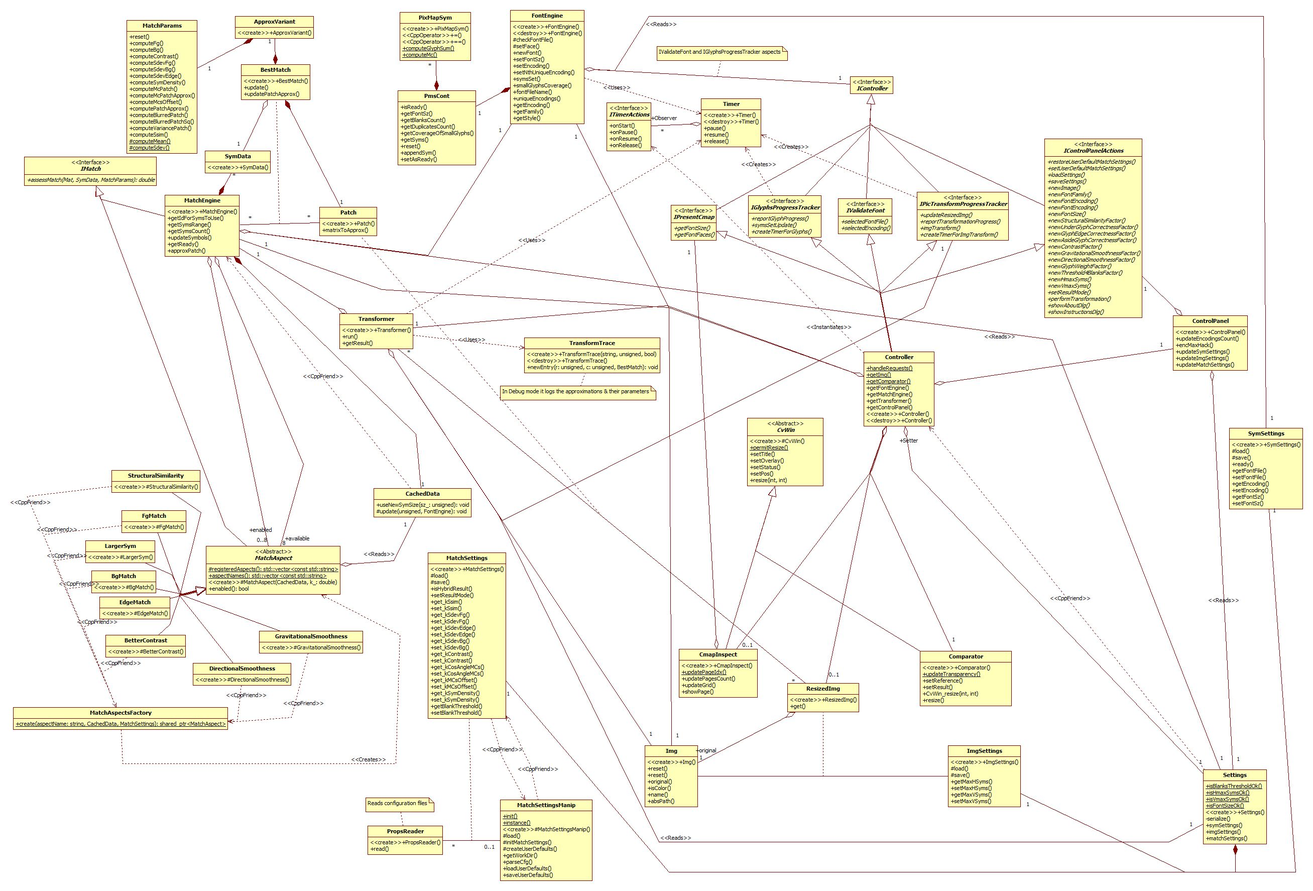
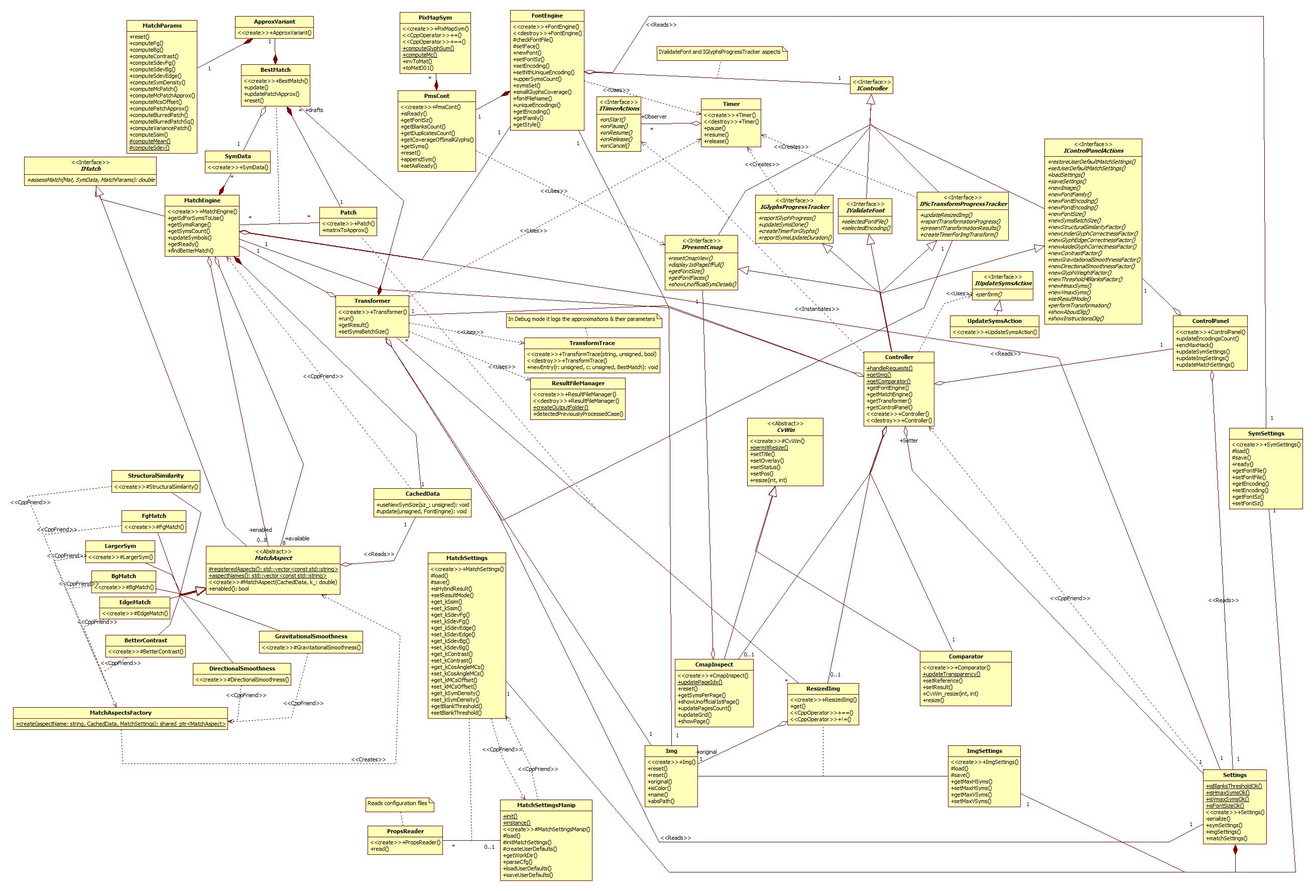
doc: updated doc for v1.3

diff --git a/doc/appendix.md b/doc/appendix.md
@@ -1,7 +1,23 @@
 ## Appendix ##
 [Back to start page](../ReadMe.md)
 
-#### A.	Technical Details of Pic2Sym v1.2
+##### A. Visualizing Draft Results in Pic2Sym v1.3
+
+Version **1.3** permits visualizing several *draft results* during the image approximation process. The user can adjust *dynamically* such feedback from the application using the **&#39;Batch syms&#39;** slider. The transformation uses dynamic charmap partitioning, so a new better draft is generated for each new lot of considered symbols. The mentioned slider dictates the size of next lots.<br>
+![](DraftsCmapPartitioning.jpg)<br>
+In this case, **&#39;Batch syms&#39;** was left from the beginning to the end of the transformation on value **5**. The *charmap* contains **125 symbols**, so there were 125 / 5 = **25 drafts** - *one generated every 4%*. Reported progress is **92%**, so the displayed draft is **23rd**. The application was just computing **24th** draft, based on the symbols with indeces *115 - 119* (the ones surrounded with *orange contour* in the image). None of the symbols 115-124 would appear in the 23rd draft, as they were not compared with the patches yet.
+
+Suppose at the captured instant the user moves the slider on value **1**. Then next batches (starting with index *120*) will have size **1**, so there will be **5** additional drafts following the one currently generated.
+
+Slider value **0** wouldn&#39;t make any sense, but since 0 is a *mandatory slider value in highgui library*, it was assigned a special meaning: **infinite batch size** - that is *next batch* should include **all remaining unprocessed glyphs**.
+
+While the last batch is considered (the one generating the final result), any changes of the **&#39;Batch syms&#39;** slider will no longer affect this transformation. So charmap partitioning is dynamic as long as there still are unprocessed batches left.
+
+Keep in mind that drafts are more visually appealing progress reports than simple completion percents, but they incur some time penalty. *Quickest approximation* is obtained with **&#39;Batch syms&#39;** slider on **0**. The *slowest* happens for **1**.
+
+The memory footprint of v1.3 is larger than v1.2 as it maintains a matrix of best matches, so that drafts are gradually improving.
+
+#### B.	Technical Details of Pic2Sym v1.3
 
 The application was tested on *Windows 7 64 bits* and developed in *C++*.
 
@@ -19,7 +35,11 @@ The decision to offer *support only for 64bits machines* originated from the len
 
 If *interested in the 32bits version of Pic2Sym*, you may search for ***Win32*** *binaries* of **OpenCV**, **FreeType 2** and **Boost**(*Serialization*, *System* and *Filesystem*), then link them within the project.
 
-The ***parallelization switches*** from _version **1.2**_, configurable from [res/varConfig.txt](../res/varConfig.txt) are *effective only when* the *global UsingOMP switch* is *on* and they _don&#39;t trigger **nested parallelism**_.
+- - -
+
+The ***parallelization switches*** from _version **1.3**_, configurable from [res/varConfig.txt](../res/varConfig.txt) are *effective only when* the *global UsingOMP switch* is *on* and they _don&#39;t trigger **nested parallelism**_. The optional **nested** parallelism from the image transformation code from version **1.2** was *removed in v1.3*. It turns out this reduces OpenMP checks concerning eventual dynamic parallelization requests, so the performance improves.
+
+- - -
 
 The *class diagram* from below presents a *simplified* perspective of the application:<br>
 ![](ClassDiag.jpg)<br>
@@ -33,7 +53,7 @@ The ***Controller*** manages the image transformation process through the follow
 - ***Img*** \- the image to approximate with symbols
 - ***Transformer*** \- preprocesses the image (resizes it - ***ResizedImg***) and demands its approximation  ***Patch*** by patch from ***MatchEngine***
 - ***FontEngine*** \- involved in loading a new font file from which to use a given encoding of a certain size
-	- ***PmsCont*** \- simple container holding each loaded glyph and some related data (part of ***FontEngine***)
+	- ***PmsCont*** \- simple container holding each loaded glyph and some related data (part of ***FontEngine***). It is used to present an *early preview of the charmap* by simply *launching a preview thread* when there are *enough processed glyphs to fill a page*
 		- ***PixMapSym*** \- a particular loaded symbol (item in ***PmsCont***)
 - ***MatchEngine*** \- the responsible of finding ***BestMatch***, the best symbol approximating a patch; also a **composite** referring match aspects
 	- ***MatchAspect*** \- base class for all 8 implemented match aspects
@@ -46,23 +66,25 @@ The ***Controller*** manages the image transformation process through the follow
 
 While comparing the symbol set with a Patch, there are values which can be reused among the employed ***MatchAspect***s. Such shareable values are grouped by the ***MatchParams*** class.
 
-***BestMatch*** holds the index of the most similar symbol to a patch, found at a given time, while investigating sequentially all the glyphs.
+***BestMatch*** holds the index of the most similar symbol to a patch, found at a given time, while investigating sequentially all the glyphs, batch by batch. ***Transformer*** keeps a matrix of ***BestMatch***-es for all the ***Patch***-es of the ***ResizedImg***. It provides this matrix as starting reference for generating another draft based on a new batch of glyphs. Besides, subsequent transformations of the same image with different charmaps will reuse previously computed ***Patch***-related data.
 
 Each symbol compared to a match produces a possible approximation ***ApproxVariant*** of the patch. Thus, *ApproxVariant* could be an *association class between Patch and one SymData item from MatchEngine*.
 
-Timing is provided by ***Timer*** class which expects a realization class of ***ITimerActions*** interface.
+*Timing* is provided by ***Timer*** class which expects a realization class of ***ITimerActions*** interface.
 
-Logging preserves the reasons behind the approximation of each patch with a certain glyph - ***TransformTrace*** makes that possible.
+*Logging* preserves the reasons behind the approximation of each patch with a certain glyph - ***TransformTrace*** makes that possible in Debug mode for transformations not canceled.
+
+*Saving resulted approximations* (completed or only partial) is the responsibility of ***ResultFileManager***, which also *detects redundant transformation requests*, when it displays the available results.
 
 ***ControlPanel*** class configures and updates the sliders from the dialog.
 
-***Comparator*** and ***CmapInspect*** share ***CvWin*** interface and provide support for comparing original images with results, and displaying the symbols from a charmap.
+***Comparator*** and ***CmapInspect*** share ***CvWin***&#39;s interface and provide support for *comparing original images with results*, and *displaying the symbols from a charmap*. ***CmapInspect*** will also attempt displaying an *early preview of a large charmap*, while it&#39;s loading. Throughout this load process, the GUI is updated based on action requests (instantiations of ***IUpdateSymsAction***) added / consumed from a queue.
 
-***MatchSettingsManip*** facilitates version management coupled with external configuration (see *res/defaultMatchSettings.txt*) for ***MatchSettings***.
+***MatchSettingsManip*** facilitates version management coupled with external configuration (see [*res/defaultMatchSettings.txt*](../res/defaultMatchSettings.txt)) for ***MatchSettings***.
 
 ***PropsReader*** provides the application with configuration items found in:
-- *res/defaultMatchSettings.txt* \- used by ***MatchSettings***
-- *res/varConfig.txt* \- adjustable constants grouped to **permit no-recompilation changes**
+- [*res/defaultMatchSettings.txt*](../res/defaultMatchSettings.txt) \- used by ***MatchSettings***
+- [*res/varConfig.txt*](../res/varConfig.txt) \- adjustable constants grouped to **permit no-recompilation changes**
 
 Classes *omitted from the diagram*:
 - ***Dialog classes*** which appear when choosing a new image / font / settings file
@@ -70,17 +92,20 @@ Classes *omitted from the diagram*:
 
 The comments within the code provide more explanations.
 
-#### B.	Installation of Pic2Sym v1.2
+#### C.	Installation of Pic2Sym v1.3
 
 1.	Download the repository files
-2.	Copy ***Common.props***, ***Debug.props*** and ***Release.props*** from **install/** folder to the solution folder
-3.	Unpack ***include.zip*** and ***lib.zip*** to the solution folder
-4.	Open the solution file and build it for **64bits** platform
-5.	*Optionally* install the free font file ***BPmonoBold.ttf*** from the **res/** folder or from [here][1], in order to be visible while running the application
+1.	Copy ***Common.props***, ***Debug.props*** and ***Release.props*** from **install/** folder to the solution folder
+1.	Unpack ***include.zip*** and ***lib.zip*** to the solution folder
+1.	Open the solution file and build it for **64bits** platform
+1.	*Optionally* install the free font file ***BPmonoBold.ttf*** from the **res/** folder or from [here][1], in order to be visible while running the application
 
-#### C.	Directory Structure for Pic2Sym v1.2
+#### D.	Directory Structure for Pic2Sym v1.3
 
-- **bin**/ contains the archieve ***Pic2Sym.zip*** with the *executable* and *required dll\-s*
+- **bin**/ contains:
+	- ***Pic2Sym.zip*** with the *executable*
+    - ***dlls.zip*** with the *required dll\-s*
+    - ***agpl-3.0.txt*** - the *license* of the application
 - **doc**/ contains the *documentation of the project* and 2 subfolders:
 	- **examples** with various results generated by the Pic2Sym project
 	- **licenses** with the *license files* from *Boost*, *FreeType* and *OpenCV*

diff --git a/doc/results.md b/doc/results.md
@@ -1,24 +1,36 @@
-## Example results generated by Pic2Sym &#60;&#61; v1.2 ##
+## Example results generated by Pic2Sym &#60;&#61; v1.3 ##
 [Back to start page](../ReadMe.md)
 
 Below are some results, which can also be found in [doc/examples](examples/) folder. The mentioned directory contains the originals as well. Each result file is prefixed by the name of the processed image.
 
 Clicking on the presented cases will open the full\-size results from [doc/examples](examples/).
 
-Version **1.2** should be the version to *choose for multi\-core processors*. It is *version 1.1 equipped for such support*. *Parallelization* in **v1.2** can be *enabled selectively* or *disabled completely* from [res/varConfig.txt](../res/varConfig.txt) (*no recompilation necessary when changed*). Some of the cases from below were tested also with version 1.2. When there&#39;s just *1 thread* mentioned, the *parallelization was completely disabled*. When specified *2 threads*, each *row of image patches* was processed by the *next available core*. There are many other parallelization switches (see the [Appendix](appendix.md) for details).
+Version **1.3** should be the version to choose for **multi\-core processors** or when aspects like **cancelable transformation** and **drafts visualization** are desired. It is *version 1.2* with *nested parallelization* removed from the image transformation code. *Parallelization* in **v1.3** can be *enabled selectively* or *disabled completely* from [res/varConfig.txt](../res/varConfig.txt) (*no recompilation necessary when changed*). When parallelization is enabled, each *row of image patches* is processed by the *next available core*. There are many other parallelization switches (see the [Appendix](appendix.md) for details).
 
-##### Hybrid Results (starting from version 1.1)
+Some of the cases from below were tested also with version 1.3.
 
-Hybrid Result mode enabled; 27540 patches to approximate using 125 symbols (*BPmono_Bold_APPLE_ROMAN_10*); Duration: **88 s** (_v**1.1**_); **101 s** (_v**1.2** using **1 thread**_); **57 s** (_v**1.2** using **2 threads**_)<br>
-[![](Example1_v1.1.jpg)](examples/6_BPmono_Bold_APPLE_ROMAN_10_1_2.5_0.25_1_0.75_0.1_0.2_0.2_0.1_0_2040_1350.jpg)<br>
-Notice how the **symbols avoid imposing themselves** and are **more visible only where they are more naturally suited**. Use **Hybrid mode** for such **discrete approximations**.<br>
+##### Illustrating &#39;Hybrid Results&#39; (introduced in version 1.1):
+
+Using a scenario with Hybrid Result mode enabled and 27540 patches to approximate with 125 symbols (*BPmono_Bold_APPLE_ROMAN_10*):<br>
+[![](Example1_v1.3.jpg)](examples/6_BPmono_Bold_APPLE_ROMAN_10_1_2.5_0.25_1_0.75_0.1_0.2_0.2_0.1_0_2040_1350.jpg)<br>
+Notice how the **symbols avoid imposing themselves** and are **more visible only where they are more naturally suited**. Use **Hybrid mode** for such **discrete approximations**.
+
+Obtained **durations**:
+- _v1.3 (using **2 threads**)_:
+	- **48 s** (_with **symbol batching disabled**_ : slider **&#39;Batch syms&#39;** set on **0** from the image below)
+	- **53 s** (_using **batches of 25 symbols**_)
+- _v1.2_:
+	- **57 s** (_using **2 threads**_)
+	- **101 s** (_using **1 thread**_)
+- _v1.1_: **88 s**
+
 *Versions starting from 1.1 skip approximating uniform patches* and that&#39;s why *processing times are smaller for this image compared to version 1.0* (see below).
 
 * * *
 
 ##### Satisfactory results and their settings (no Hybrid Result mode)
 
-Same picture and settings from above (but no **Hybrid Result**) generate the image below in **153 s** in *version* **1.0**:<br>
+Same picture and settings from above (but no **Hybrid Result**) generate the following result in **153 s** in *version* **1.0**:<br>
 [![](Example1.jpg)](examples/6_BPmono_Bold_APPLE_ROMAN_10_2.5_0.25_1_0.75_0.1_0.2_0.2_0.1_0_2040_1350.jpg)<br>
 It marks high in the following parts: eyes, eyebrows, wrinkles, some contours and texture of the shiny blue object in the close plane.<br>
 The grid splits incur some unnatural transitions.
@@ -65,8 +77,12 @@ Using only [Structural Similarity][], again; 27540 patches to approximate using 
 Duration: **385 s** (**no Hybrid**, _version **1.0**_):<br>
 [![](Example7.jpg)](examples/15_Monaco_Regular_UNICODE_10_2.5_0_0_0_0_0_0_0_0_2040_1350.jpg)<br>
 The chamois seem quite blurred and the background seriously competes for viewer&#39;s attention, more than it should, in my opinion.<br><br>
-**Hybrid approximation** from below isn&#39;t affected by these concerns. Duration: **291 s** (_v**1.1**_); **314 s** (_v**1.2** using **1 thread**_); **180 s** (_v**1.2** using **2 threads**_):<br>
-[![](Example7_v1.1.jpg)](examples/15_Monaco_Regular_UNICODE_10_1_2.5_0_0_0_0_0_0_0_0_2040_1350.jpg)
+**Hybrid approximation** from below isn&#39;t affected by these concerns:<br>
+[![](Example7_v1.1.jpg)](examples/15_Monaco_Regular_UNICODE_10_1_2.5_0_0_0_0_0_0_0_0_2040_1350.jpg)<br>
+Obtained **durations**:
+- _v1.3_: **159 s** (_using **2 threads** with **symbol batching disabled**_)
+- _v1.2_: **180 s** (_using **2 threads**_); **314 s** (_using **1 thread**_)
+- _v1.1_: **291 s**
 _ _ _
 
 Still using only [Structural Similarity][]; 27405 patches to approximate using 219 symbols (*Consolas_Italic_APPLE_ROMAN_10*)<br>
@@ -75,15 +91,19 @@ Still using only [Structural Similarity][]; 27405 patches to approximate using 2
 *Italic* fonts cannot tackle top\-left corners well\-enough.<br>
 There are just a few parts that looks like one would expect from an approximation.<br>
 A reason might be that there are many large background differences among neighbor patches.<br><br>
-**Hybrid approximation** seems better. Duration: **188 s** (_v**1.1**_); **198 s** (_v**1.2** using **1 thread**_); **106 s** (_v**1.2** using **2 threads**_):<br>
+**Hybrid approximation** seems better:<br>
 [![](Example8_v1.1.jpg)](examples/7g_Consolas_Italic_APPLE_ROMAN_10_1_2.5_0_0_0_0_0_0_0_0_1350_2030.jpg)<br>
+Obtained **durations**:
+- _v1.3_: **101 s** (_using **2 threads** with **symbol batching disabled**_)
+- _v1.2_: **106 s** (_using **2 threads**_); **198 s** (_using **1 thread**_)
+- _v1.1_: **188 s**
 _ _ _
 
 Finally, [Structural Similarity][] disabled; 625 patches to approximate using 218 symbols (*Courier_New_Bold Italic_APPLE_ROMAN_10*)<br>
 Duration: **1 s** (**no Hybrid**, _version **1.0**_):<br>
 [![](Example9.jpg)](examples/17g_Courier New_Bold Italic_APPLE_ROMAN_10_0_0.25_1_0.75_0.1_0.2_0.2_0.1_0_250_250.jpg)<br>
 ***Bold Italic*** fonts don&#39;t serve well when patches contain vertical texture, like the pajama of the man from top\-right corner.<br><br>
-**Hybrid approximation** appears better. Duration: **1 s** (_v**1.1** and v**1.2** with **1** or **2 threads**_):<br>
+**Hybrid approximation** appears better. Duration: **1 s** (_v**1.1**, v**1.2** with **1** or **2 threads** and v**1.3** with **2 threads**_):<br>
 [![](Example9_v1.1.jpg)](examples/17g_Courier New_Bold Italic_APPLE_ROMAN_10_1_0_0.25_1_0.75_0.1_0.2_0.2_0.1_0_250_250.jpg)<br>
 
 * * *
@@ -107,7 +127,7 @@ For better understanding how to configure the application, read the [Control Pan
 
 Cases **to avoid**:
 
-- pictures with *lots of random context changes between patches* (they generate ***odd mosaics***)
+- pictures with *lots of random context changes between patches* (they generate ***odd mosaics*** in **non-Hybrid mode**)
 - *symbol sets* which:
 	* contain more than 400 glyphs (***incurred time costs; little perceived difference on result***)
 	* have a *size much too small* to distinguish them
@@ -115,7 +135,9 @@ Cases **to avoid**:
 	* are *italic* when there are many regions with textures tilted differently
 	* contain *glyphs filling almost solid their square* (such symbols are very likely to approximate ambiguous patches and ***they appear rigid, despite they are correctly selected***)
 
-Version **1.2** (which introduced *thread-parallelism*) is suited for *multi-core machines*. Version **1.1** performs better than **1.2** for *sequential runs*.
+Version **1.3** allows *canceling transformations* and *visualizing drafts*, while preserving *most efficient multithreading switches* from **v1.2**. It performs better than v1.2 on multi-core machines as long as demanding only a few drafts.
+Version **1.2** introduced *thread-parallelism* and provides maximum number of parallelization combinations.
+Version **1.1** performs better than **1.2** and **1.3** for *sequential runs*.
 
 These initial versions are useful for determining what problems, limitations, as well as opportunities exist and which solutions are best.
 

diff --git a/doc/CtrlPanel.md b/doc/CtrlPanel.md
@@ -11,10 +11,14 @@ These are the controls explained below:
 - Button **Select a Scalable, preferably also Monospaced Font Family** prompts the user with the Select Font Dialog to choose which font family to use when approximating an image. Monospace fonts have same width, so a more even width distribution - feature useful when approximating patches with random width distributions. Please ignore *Font Size* and *Script* presented by the standard dialog, as *they are configured by the next 2 sliders*. After selection, the ***symbol set window*** will quickly present some of the symbols from the **default encoding** of the chosen font family
 - Slider **Encoding** lets the user decide which encoding to use from the selected font family (when there are more available). The *name of the current encoding* appears at the end of the status bar in the ***symbol set window***. Examples of typical encoding names: *UNICODE*, *APPLE ROMAN*, *ADOBE STANDARD*. Sliders provided by *highgui* module from ***OpenCV*** must contain the values 0 and 1, so font families with a single encoding will still appear as offering 2. The application ignores bad encoding requests
 - Slider **Font size** allows resizing the selected font using scales beyond the normal sizes exposed by the Select Font Dialog. The valid range is 7..50. Smaller values mean more faithful approximations and more computation time, while larger ones produce coarser results, but faster. Symbols less than 7x7 are really hard to distinguish
+- Slider **Batch syms** *dynamically* controls *draft results frequency* during a transformation. The drafts are generated using *charmap partitioning* and this slider sets the width of next unprocessed batches of glyphs:
+	- **0** means *no more drafts for the rest of the ongoing transformation* (It sets an infinite batch size). **Once this 0 is processed**, *other slider values will be ignored until the transformation finishes / is canceled*. 0 is useful to achieve **fastest transformation time** (usually faster than version 1.2)
+	- **small non-zero values** produce *more frequent drafts*, but these incur time penalties
+	- **larger values** will *decrease draft visualizations and management*, thus also the processing duration
 - The buttons **Restore defaults for values below** and **Set as defaults the values below** are handy when experimenting with the transformation parameters
 - Slider **Hybrid Result** is merely a checkbox:
-	- 0 means that the result is the *actual* approximation of the image (from version 1.0), with no cosmeticizing
-	- 1 is for *Hybrid Result* - combination of approximated patches with the blurred version of those original patches. Good approximations will be more visible on the result patch, while the rest of less-inspired approximations will be dominated by the blurred patch
+	- **0** means that the result is the *actual* approximation of the image (from version 1.0), with no cosmeticizing
+	- **1** is for *Hybrid Result* - combination of approximated patches with the blurred version of those original patches. Good approximations will be more visible on the result patch, while the rest of less-inspired approximations will be dominated by the blurred patch
 - Slider **Structural similarity** (see [this](https://ece.uwaterloo.ca/~z70wang/research/ssim) for details) does contribute to generating *great approximations*, however it incurs a *much longer transformation*
 - The sliders **Fit under**, **Fit edge**, **Fit aside** penalize poor approximations (they aim for the *correctness* of the match):
 	- **Fit under** will measure the match betweeen the foreground of the symbol and the patch. Normally, this checks an area smaller than the regions used by the next 2 sliders. This setting can _remain smaller than the values of *Fit edge* and *Fit aside*_

diff --git a/doc/testBinary.md b/doc/testBinary.md
@@ -1,4 +1,4 @@
-## Testing the provided binary of Pic2Sym v1.2 (*Windows 64bits only*) ##
+## Testing the provided binary of Pic2Sym v1.3 (*Windows 64bits only*) ##
 
 [Back to start page](../ReadMe.md)
 
@@ -7,18 +7,19 @@ It&#39;s *recommended* to read first the ***Conclusions*** from the bottom of th
 Now the steps:
 
 1. Choose a directory for this test (*TestDir*)
-2. Download repository files to another folder.
-3. Unpack **bin/Pic2Sym.zip** in *TestDir*
-4. Copy the whole **res/** folder (*together with the folder*) to *TestDir*
-5. Launch ***TestDir*/Pic2Sym.exe**. If it starts, jump to **7**. For errors about *missing dll\-s*, continue below
-6. Non\-development machines might not have several *common dll-s*, so here are some links to **download them in _TestDir_**, if reported missing: [msvcp120.dll][], [msvcr120.dll][], [vcomp120.dll][], [comdlg32.dll][] or [advapi32.dll][]. _Make sure the application starts before continuing to **7**_
-7. *Optionally* install (*double\-clicking the file*) the *free* font ***BpMono bold*** from [here][1] or from  ***TestDir*/res/BpMonoBold.ttf** *to ensure your machine has at least one interesting font to work with*
-8. Activate the main window and press **Ctrl\+P** to display the *Control Panel*.
-9. Now some configurations for a *first* ***rapid*** transformation:
+1. Download repository files to another folder.
+1. Unpack **bin/Pic2Sym.zip** and **bin/dlls.zip** in *TestDir*. Copy there **bin/agpl-3.0.txt**, as well.
+1. Copy the whole **res/** folder (*together with the folder*) to *TestDir*
+1. Launch ***TestDir*/Pic2Sym.exe**. If it starts, jump to **7**. For errors about *missing dll\-s*, continue below
+1. Non\-development machines might not have several *common dll-s*, so here are some links to **download them in _TestDir_**, if reported missing: [msvcp120.dll][], [msvcr120.dll][], [vcomp120.dll][], [comdlg32.dll][] or [advapi32.dll][]. _Make sure the application starts before continuing to **7**_
+1. *Optionally* install (*double\-clicking the file*) the *free* font ***BpMono bold*** from [here][1] or from  ***TestDir*/res/BpMonoBold.ttf** *to ensure your machine has at least one interesting font to work with*
+1. Activate the main window and press **Ctrl\+P** to display the *Control Panel*.
+1. Now some configurations for a *first* ***rapid*** transformation:
 	- select a **small image** to transform
     - select a *font family* to use. Suggestion not to underestimate: use a **bold style** font family with **less than 400 symbols**
     - bring **[Structural Similarity][] slider to 0**
-10. Finally hit **Transform**. At the end of the transformation you&#39;ll be able to *inspect the result* with the *Transparency slider* and the *Zoom feature* from the main window
+    - *optionally* set **Batch syms** slider on a **small non-zero value** if you prefer *more frequent draft results*
+1. Finally hit **Transform**. Started approximation process can be **canceled** at any time by **pressing ESC**. At the end of the transformation you&#39;ll be able to *inspect the result* with the *Transparency slider* and the *Zoom feature* from the main window
 
 --------
 [Back to start page](../ReadMe.md)

diff --git a/doc/relatedWork.md b/doc/relatedWork.md
@@ -21,7 +21,7 @@ Among the many image/video\-to\-ASCII applications, only a few tackle:
 2.	the problems raised by the ***less\-ideal aspect\-ratio of the original symbols*** (results are less accurate vertically, as symbols occupy vertical rectangles, so vertical information will be less frequently approximated than horizontal image data)
 3.	using a ***non\-black (or white) background*** for the symbols (results appear like a rough canvas). [This Android application](https://play.google.com/store/apps/details?id=com.muri.asciiart&hl=en) addressed the issue.
 
-**Pic2Sym** handles the issues above. Point 1 involves developing fast and accurate match algorithms. One such algorithm I included in the application comes from [Structural Similarity](https://ece.uwaterloo.ca/~z70wang/research/ssim) research. Point 2 meant resizing the symbols to fit within squares of desired size. Point 3 simply averages the color around the chosen symbol to determine its background.
+**Pic2Sym** attempts to handle the issues above. Point 1 involves developing fast and accurate match algorithms. One such algorithm (accurate, but slow) I included in the application comes from [Structural Similarity](https://ece.uwaterloo.ca/~z70wang/research/ssim) research. Point 2 meant resizing the symbols to fit within squares of desired size. Point 3 simply averages the color around the chosen symbol to determine its background.
 
 
 ----------

diff --git a/doc/conclusions.md b/doc/conclusions.md
@@ -1,16 +1,14 @@
 ## Conclusions and further directions ##
 [Back to start page](../ReadMe.md)
 
-By now (v1.2), the application:
+By now (v1.3), the application:
 - offers *various match aspects* for deciding which symbol will approximate an image patch
 - provides either *raw image approximations*, or a satisfactory *hybrid result* for more complex content
 - lets the user select *which critical paths to parallelize* on *multi\-core machines*
-- tackles well font families with *less than 400 symbols*.
-
-A more pleasant user experience could come from:
-- allowing *tasks* to be *canceled*
-- presenting several *coarser drafts* while *refining the result*
-- *prioritizing jobs* to deliver first the *rapid feedback expected by user* and continue with remaining computations afterwards
+- allows *transformations* to be *canceled*, while saving the available draft result
+- presents several *coarser drafts* while *refining the result* and lets the user decide their frequency
+- displays *early previews* of *large font families* while they get loaded
+- tackles well transformations based on font families with *less than 400 symbols*.
 
 Using *larger symbol* sets would be possible only by *removing some undesired glyphs* and *clustering* the rest. *Patches* could be *similarly clustered*, at least for *draft results*.
 

diff --git a/ReadMe.md b/ReadMe.md
@@ -1,4 +1,4 @@
-# Pic2Sym v1.2 #
+# Pic2Sym v1.3 #
 
 **Topics:**
 
@@ -22,7 +22,8 @@ The symbols used for approximation are **scalable**, *preferably* **fixed\-width
 The resulted grid has **square cells** and *the symbols are preprocessed* to fit such cells by widening them all. Therefore the **output is simply a new image**, and cannot be saved as a char table in html or as a text file, like in similar applications.
 Console output is also ruled out, first because there are only a couple of font sizes available and secondly, because consoles usually provide only 16 colors.
 
-**Version 1.2** implemented parallelization on top of v1.1, so it will be faster on **multi\-core machines** and a bit slower than v1.1 on single\-core machines or when the parallelism is disabled.
+**Version 1.3** allows *more responsive commands* and lets the user **choose dynamically** how often to visualize some **draft results** during a transformation. Such long approximation processes can now be **canceled with _ESC_ key**, while still saving the current generated draft image. Similarly, large charmaps do offer in this version an **early preview of their glyphs**.
+Its image transformation is **faster than in v1.2** when configured for *no / rare drafts generation*.
 
 - - -
 

diff --git a/doc/performance.md b/doc/performance.md
@@ -1,5 +1,18 @@
-## Performance of Pic2Sym &#60;&#61; v1.2 ##
+## Performance of Pic2Sym &#60;&#61; v1.3 ##
 [Back to start page](../ReadMe.md)
+
+**Version 1.3** has put emphasis on *application responsiveness* and *efficiency*. The user was placed in charge of *how often to get feedback* from the application. For that:
+- it implemented _charmap **dynamic** partitioning_ with a better draft generated for every new batch of symbols from the entire set. The user might adjust on the spot the size of next batches, thus the draft frequency.
+- it delivers an *early preview of large charmaps* while they are loaded
+- it removed any *optional nested parallelism from image approximation code from v1.2*
+
+Outcome (compared to *v1.2*):
+- **faster transformation** if the user requires no drafts, or only a few. This is because there was a lot of OpenMP code involved in the removed *optional nested parallelism*
+- drafts computed based on charmap partitioning required holding a matrix of previous best matches, so this means **larger memory footprint**
+
+* * *
+
+### Analysis for Pic2Sym version 1.2
 
 **Version 1.2** uses **OpenMP** for parallelism (*Visual C++ implementation of OpenMP version 2.0 from March 2002*).
 
